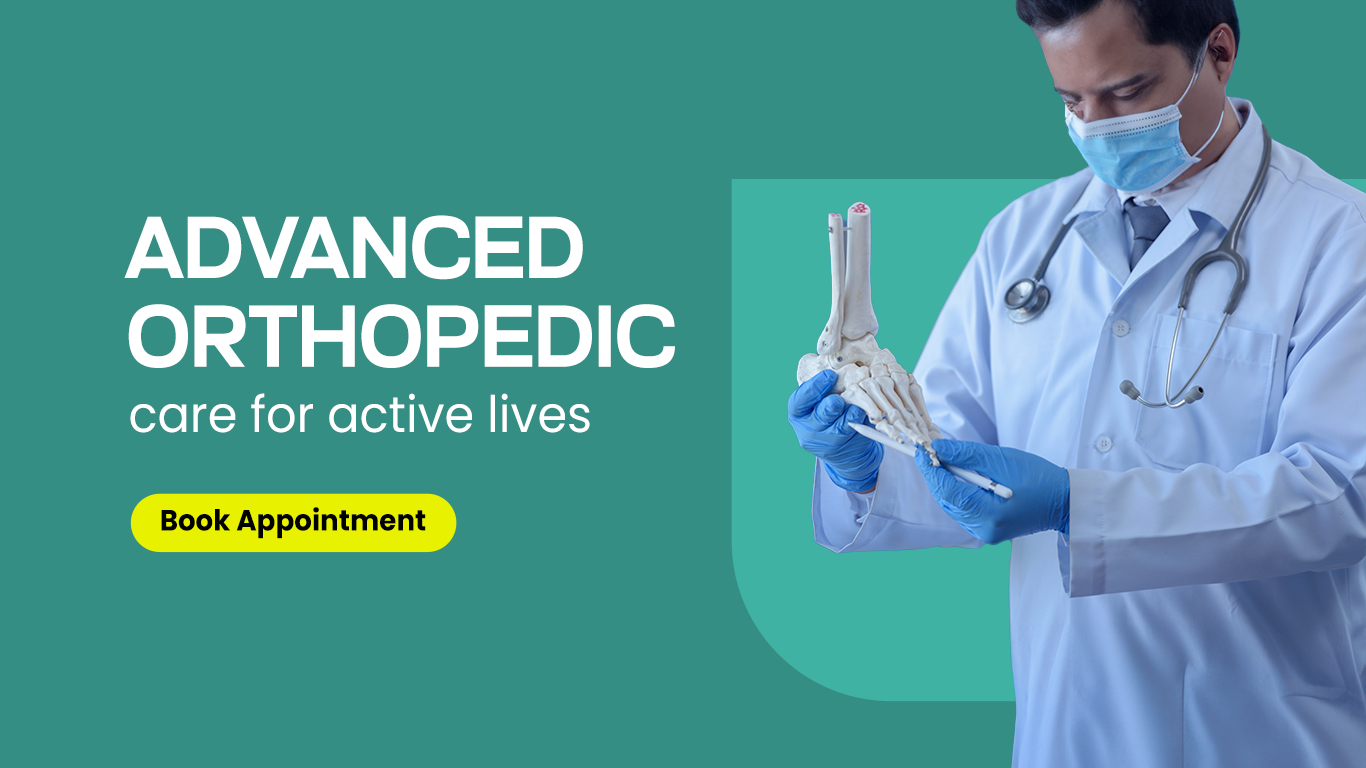
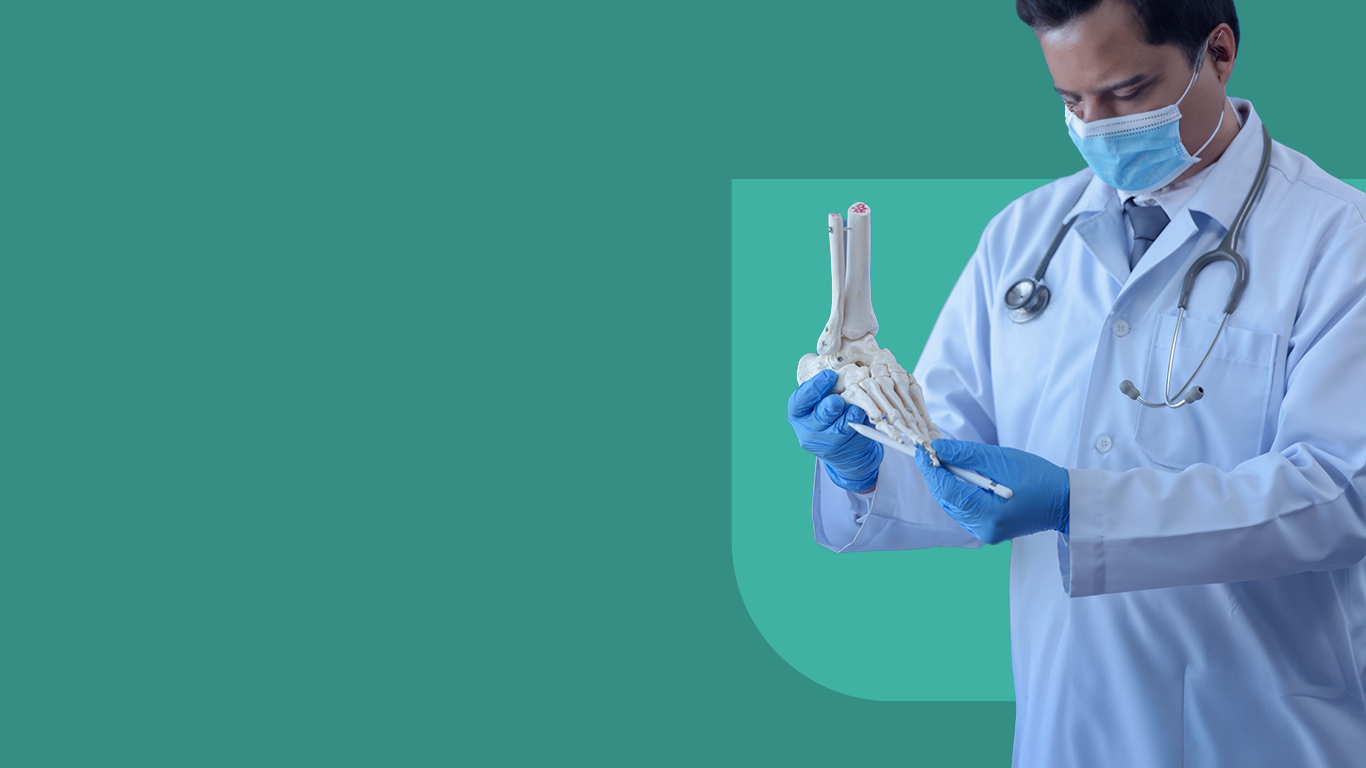
mobile slider added

Changed region(s): [[0.0922, 0.2812, 0.4919, 0.5625], [0.0922, 0.625, 0.3382, 0.7188]]

diff --git a/index.html b/index.html
@@ -392,40 +392,42 @@
     <!-- silder -->
     <div class="row slider">
         <div class="box1 relative">
-            <img src="img/Nirmala-slider-1.png"  alt="">
-            <!-- <img src="img/slider.png" class="phone-show" alt="">  class="laptop-show"-->
+            <img src="img/Nirmala-slider-1.png"  class="laptop-show"  alt="">
+            <img src="img/NirmalaMobile1.png" class="phone-show" alt=""> 
 
-            <!-- <div class="absolute top-0 left-0 w-full h-full  bg-[black] opacity-50 z-1"></div> -->
+            <div class="absolute top-0 left-0 w-full h-full  bg-[black] opacity-50 z-1"></div>
             <!-- <div class="h1">
                 <h1>UNLOCK YOUR<br> TRUE WEALTH.</h1>
                </div> -->
-            <!-- <div class="h1">
-                <h1 class="text-[#39404a] w-[60%]">Your Trusted Partner for Everyday Health Needs</h1>
+            <div class="h1">
+                <h1 class="text-[#39404a] w-[60%] ">ADVANCED ORTHOPEDIC</h1>
+                <p class="!text-[white] font-[Poppins] !text-4xl">Care for active lives</p>
 
                 <button class="join">Book Appointment </button>
-            </div> -->
+            </div>
         </div>
         <div class="box1 relative">
             <img src="img/Nirmala-slider-2.png" alt="">
-            <!-- <img src="img/slider-2.png" class="phone-show" alt=""  class="laptop-show">
+            <img src="img/NirmalaMobile2.png" class="phone-show" alt=""  class="laptop-show">
             <div class="absolute top-0 left-0 w-full h-full  bg-[black] opacity-50 z-1"></div>
             <div class="h1">
-                <h1 class="text-[#39404a] w-[60%]">Comprehensive Gynecological Care for Women’s Well-Being</h1>
+                <h1 class="text-[#39404a] w-[60%] ">COMPREHENSIVE GYNECOLOGICAL</h1>
+                <p class="!text-[white] font-[Poppins] !text-4xl">Care for Women's Well-Being</p>
 
                 <button class="join">Book Appointment </button>
-            </div> -->
+            </div>
             
         </div>
         <div class="box1 relative">
             <img src="img/Nirmala-slider-3.png"  alt="">
-            <!-- <img src="img/slider-3.png" class="phone-show" alt="" class="laptop-show">
+            <img src="img/NirmalaMobile3.png" class="phone-show" alt="" class="laptop-show">
             <div class="absolute top-0 left-0 w-full h-full  bg-[black] opacity-50 z-1"></div>
             <div class="h1">
-                <h1 class="text-[#39404a] w-[60%]">Advanced Orthopedic care
-                    for Active Lives</h1>
+                <h1 class="text-[#39404a] w-[60%] ">YOUR TRUSTED PARTNER FOR</h1>
+                <p class="!text-[white] font-[Poppins] !text-4xl">Everyday Health Needs</p>
 
                 <button class="join">Book Appointment </button>
-            </div> -->
+            </div>
             <!-- <div class="h1">
                 <h1>LET YOUR FAMILY'S<br> DREAM BIG.</h1>
                </div> -->

diff --git a/css/style2.css b/css/style2.css
@@ -188,14 +188,17 @@ nav {
   }
 }
 .h1 {
-    top: 29%;
-    left: 5dvh;
+    top: 20%;
+    left: 20vh;
     position: absolute;
     
 }
 @media(max-width:768px){
   .h1 {
     display: block;
+    left: 10vh;
+    position: absolute;
+    
   }
   .responsive-get{
     position: static !important;
@@ -266,14 +269,15 @@ nav {
 
 .join {
     display: inline-block;
-    background: #358e83;
-    border: 3px solid #358e83;
+    background: #b4bf00;
+    border: 3px solid #b4bf00;
     padding: 15px 30px;
     margin: 50px 0px 0px 0px;
     font-size: 17px;
-    color: white;
+    color:black;
     border-radius: 100px;
     font-family: 'Poppins', sans-serif;
+    font-weight: 600;
     transition: 0.5s;
 }
 
